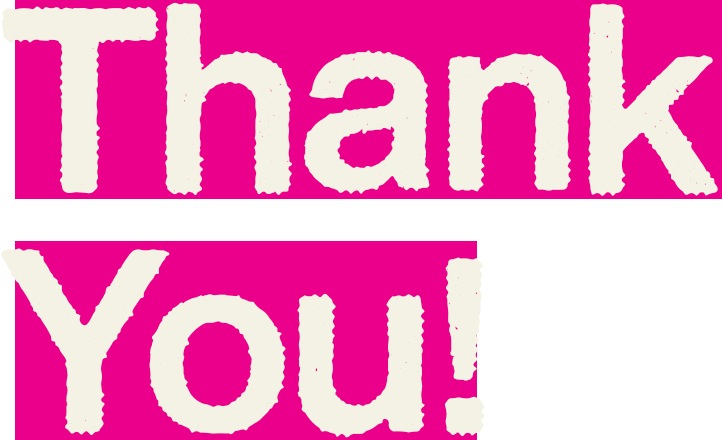
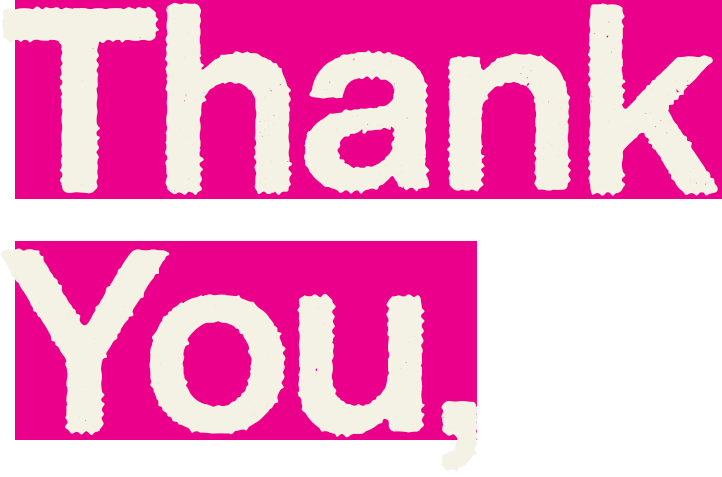
Finale

diff --git a/style.css b/style.css
@@ -263,7 +263,7 @@ body {
   align-items: start;
   position: relative;
   z-index: 1;
-  padding-top: 7.6rem;
+  padding-top: 2.6rem;
 }
 .s3-root .center-content{
   display: grid;
@@ -344,15 +344,23 @@ body {
 
 /* Personalized line under the Thanks image */
 .thanks-block {
-  background-color: #ec008b;
   margin-top: 12px;
-
+  position: relative;
+  
+}
+.thanks-block--bg {
+  position: absolute;
+  top: 0;
+  right: 0px;
+  background-color: #ec008b;
+  width: 97%;
+  height: 100%;
 }
 .thanks-line{
   font-family: var(--font-app);
   font-weight: 600;
-  font-size: 4.4rem;
-  line-height: 0.95;
+  font-size: 4.8rem;
+  line-height: 0.85;
   text-align: center;
   color: #f6f1e4;
   filter: blur(5px);

diff --git a/script.js b/script.js
@@ -174,7 +174,7 @@ form?.addEventListener('submit', async (e) => {
     });
     // Grab first name from common field ids/names
     const firstNameField = document.querySelector('#firstName, #fname, [name="firstName"], [name="fname"]');
-    const submittedFirstName = `[${(firstNameField?.value || '').trim()}]`;
+    const submittedFirstName = `${(firstNameField?.value || '').trim()}!`;
 
     // Persist for the Thanks screen
     if (submittedFirstName) {

diff --git a/index.html b/index.html
@@ -120,6 +120,7 @@
           class="thanks-img thanks-pop"
         />
         <div class="thanks-block">
+          <div class="thanks-block--bg"></div>
           <p id="thanksFirstName" class="thanks-line ink-rough thanks-pop" aria-live="polite" hidden></p>
         </div>
       </section>
